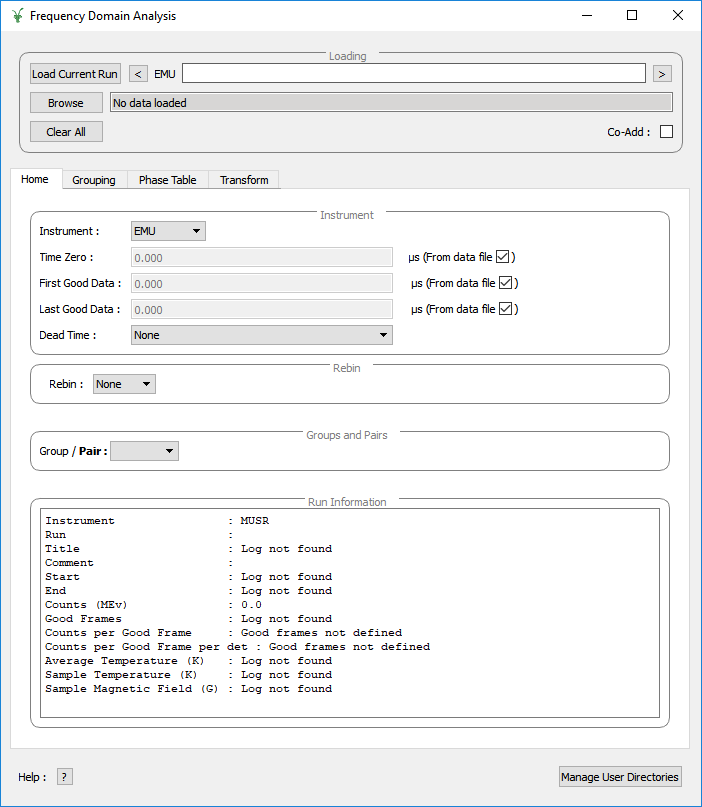
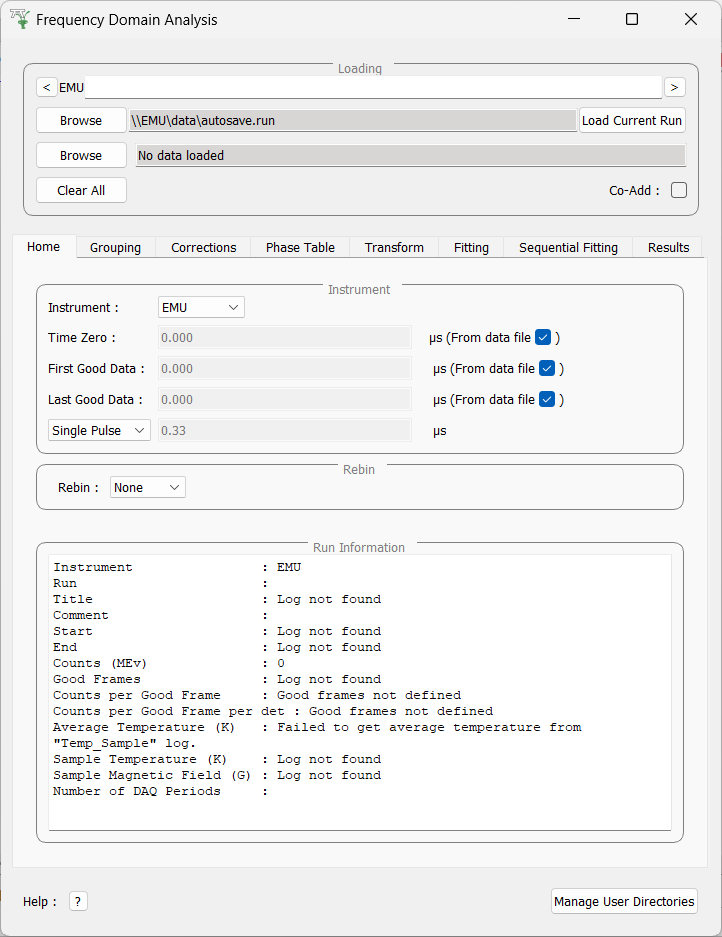
Allow user to specify the location of an autosave.run file in the muon analysis interface (#41711)

Pull request: Allow user to specify the location of an autosave.run file in the muon analysis interface
### Description of work

The original issue was to enable the `Load Current Run` button on all platforms. We found that this button gets a file from a windows network mounted folder (on the cabin pc) e.g `\\emu\data`. This is not really accessible to other platforms.

To load the current run, the interface looks inside a file called `autosave.run` (e.g `\\emu\data\autosave.run`) which contains the name of the latest run; a file in the same directory. Talking with the user who requested this feature, they said they'd be happy with being able to specify the path to the `autosave.run` file on other platforms.

So I've added a new browse button + line edit to list the location of that file, it is filled automatically on Windows.

Closes #41365

### To test:

On Windows,
 - Check that the load current run button still works
 - Change the instrument and check it still works

On Linux/Mac
- In a directory where you have `EMU<number>.nxs`, create a file called `autosave.run`
- Inside `autosave.run` write `EMU<number>.nxs` on a single line
- In the interface click browse and select the new autosave file you wrote
- Click load current run and check it loads the file you specified

Build docs and check the changed ones look sensible.

<!-- Include sufficient instructions for someone unfamiliar with the application to test.
Ok to refer back to instructions in the issue.
-->

<!-- REMEMBER:
- Add labels, milestones, etc.
[…]

diff --git a/qt/python/mantidqtinterfaces/mantidqtinterfaces/Muon/GUI/Common/load_run_widget/load_run_view.py b/qt/python/mantidqtinterfaces/mantidqtinterfaces/Muon/GUI/Common/load_run_widget/load_run_view.py
@@ -20,9 +20,11 @@ class LoadRunWidgetView(QtWidgets.QWidget):
     def __init__(self, parent=None):
         super(LoadRunWidgetView, self).__init__(parent)
         self.load_current_run_button = None
+        self.browse_button = None
+        self.autosave_file_path_edit = None
         self.increment_run_button = None
         self.decrement_run_button = None
-        self.horizontal_layout = None
+        self.vertical_layout = None
         self.instrument_label = None
         self.run_edit = None
         self.spacer_item = None
@@ -37,10 +39,22 @@ class LoadRunWidgetView(QtWidgets.QWidget):
         self.setObjectName("LoadRunWidget")
         self.resize(468, 45)
 
+        self.browse_button = QtWidgets.QPushButton(self)
+        self.browse_button.setObjectName("browseButton")
+        self.browse_button.setToolTip("Browse for an autosave.run file")
+        self.browse_button.setText("Browse")
+
         self.load_current_run_button = QtWidgets.QPushButton(self)
         self.load_current_run_button.setText("Load Current Run")
         self.load_current_run_button.setToolTip("Load the current run for the current instrument")
         self.load_current_run_button.setObjectName("loadCurrentRunButton")
+
+        self.autosave_file_path_edit = QtWidgets.QLineEdit(self)
+        self.autosave_file_path_edit.setToolTip("Set location of autosave.run")
+        self.autosave_file_path_edit.setObjectName("autosaveFilePathEdit")
+        self.autosave_file_path_edit.setPlaceholderText("autosave.run file path not set")
+        self.autosave_file_path_edit.setStyleSheet("background: #d7d6d5;")
+        self.autosave_file_path_edit.setReadOnly(True)
 
         self.increment_run_button = QtWidgets.QToolButton(self)
         self.increment_run_button.setText(">")
@@ -67,18 +81,28 @@ class LoadRunWidgetView(QtWidgets.QWidget):
         )
         self.run_edit.setObjectName("runEdit")
 
-        self.horizontal_layout = QtWidgets.QHBoxLayout(self)
-        self.horizontal_layout.setObjectName("horizontalLayout")
-        self.horizontal_layout.addWidget(self.load_current_run_button)
-        self.horizontal_layout.addWidget(self.decrement_run_button)
-        self.horizontal_layout.addWidget(self.instrument_label)
-        self.horizontal_layout.addWidget(self.run_edit)
-        self.horizontal_layout.addWidget(self.increment_run_button)
+        horizontal_layout_1 = QtWidgets.QHBoxLayout()
+        horizontal_layout_1.setObjectName("horizontalLayout_1")
+        horizontal_layout_1.addWidget(self.decrement_run_button)
+        horizontal_layout_1.addWidget(self.instrument_label)
+        horizontal_layout_1.addWidget(self.run_edit)
+        horizontal_layout_1.addWidget(self.increment_run_button)
 
-        self.horizontal_layout.setContentsMargins(0, 0, 0, 0)
+        horizontal_layout_2 = QtWidgets.QHBoxLayout()
+        horizontal_layout_2.setObjectName("horizontalLayout_2")
+        horizontal_layout_2.addWidget(self.browse_button)
+        horizontal_layout_2.addWidget(self.autosave_file_path_edit)
+        horizontal_layout_2.addWidget(self.load_current_run_button)
+
+        self.vertical_layout = QtWidgets.QVBoxLayout(self)
+        self.vertical_layout.setObjectName("verticalLayout")
+        self.vertical_layout.addItem(horizontal_layout_1)
+        self.vertical_layout.addItem(horizontal_layout_2)
+
+        self.vertical_layout.setContentsMargins(0, 0, 0, 0)
 
     def getLayout(self):
-        return self.horizontalLayout
+        return self.vertical_layout
 
     # ------------------------------------------------------------------------------------------------------------------
     # Enabling / disabling the interface
@@ -103,12 +127,14 @@ class LoadRunWidgetView(QtWidgets.QWidget):
     def disable_load_buttons(self):
         self.load_current_run_button.setEnabled(False)
         self.run_edit.setEnabled(False)
+        self.autosave_file_path_edit.setEnabled(False)
         self.increment_run_button.setEnabled(False)
         self.decrement_run_button.setEnabled(False)
 
     def enable_load_buttons(self):
         self.load_current_run_button.setEnabled(True)
         self.run_edit.setEnabled(True)
+        self.autosave_file_path_edit.setEnabled(True)
         self.increment_run_button.setEnabled(True)
         self.decrement_run_button.setEnabled(True)
 
@@ -127,6 +153,9 @@ class LoadRunWidgetView(QtWidgets.QWidget):
 
     def set_current_instrument(self, instrument):
         self.instrument_label.setText(instrument)
+
+    def set_autosave_file_path(self, file_path):
+        self.autosave_file_path_edit.setText(file_path)
 
     def set_run_edit_regex(self):
         # The regular expression string here is "^[0-9]*([0-9]+[,-]{0,1})*[0-9]+$"
@@ -147,6 +176,9 @@ class LoadRunWidgetView(QtWidgets.QWidget):
         tmp = self._cached_text
         self.set_run_edit_text(tmp)
         self._cached_text = tmp
+
+    def get_autosave_file_path(self):
+        return str(self.autosave_file_path_edit.text())
 
     def get_run_edit_text(self):
         return str(self.run_edit.text())
@@ -169,6 +201,9 @@ class LoadRunWidgetView(QtWidgets.QWidget):
 
     def on_increment_run_clicked(self, slot):
         self.increment_run_button.clicked.connect(slot)
+
+    def on_browse_clicked(self, slot):
+        self.browse_button.clicked.connect(slot)
 
     def on_load_current_run_clicked(self, slot):
         self.load_current_run_button.clicked.connect(slot)

diff --git a/qt/python/mantidqtinterfaces/test/Muon/utilities/muon_file_utils_test.py b/qt/python/mantidqtinterfaces/test/Muon/utilities/muon_file_utils_test.py
@@ -118,12 +118,58 @@ class MuonFileUtilsTest(unittest.TestCase):
         test_file_name = StringIO("autoA")
         utils.open = mock.Mock(return_value=test_file_name)
         current_file_name = utils.get_current_run_filename("EMU")
-        self.assertEqual(current_file_name, expected_file_name)
+        self.assertEqual(str(current_file_name), expected_file_name)
 
     def test_that_get_current_run_throws_if_no_valid_run_in_autosave_run(self):
         utils.check_file_exists = mock.Mock(side_effect=[True, False])
         with self.assertRaises(ValueError):
             utils.get_current_run_filename("EMU")
+
+    def test_get_autosave_file_path_returns_correct_path_for_emu(self):
+        expected_file_path = os.path.abspath(os.sep + os.sep + "EMU" + os.sep + "data" + os.sep + "autosave.run")
+        file_path = utils.get_autosave_file_path("EMU")
+
+        self.assertEqual(file_path, expected_file_path)
+
+    def test_get_autosave_file_path_returns_correct_path_for_musr(self):
+        expected_file_path = os.path.abspath(os.sep + os.sep + "MUSR" + os.sep + "data" + os.sep + "autosave.run")
+        file_path = utils.get_autosave_file_path("MUSR")
+
+        self.assertEqual(file_path, expected_file_path)
+
+    def test_get_autosave_file_path_throws_for_invalid_instrument(self):
+        with self.assertRaisesRegex(RuntimeError, "not in list of allowed instruments"):
+            utils.get_autosave_file_path("INVALID_INSTRUMENT")
+
+    def test_get_current_run_filename_with_custom_autosave_path(self):
+        utils.check_file_exists = mock.Mock(return_value=True)
+        custom_autosave_path = "/custom/path/autosave.run"
+        expected_file_name = "/custom/path/autoA"
+        test_file_content = StringIO("autoA")
+        utils.open = mock.Mock(return_value=test_file_content)
+
+        current_file_name = utils.get_current_run_filename("EMU", autosave=custom_autosave_path)
+
+        self.assertEqual(current_file_name.as_posix(), expected_file_name)
+        # Verify that open was called with the custom autosave path
+        utils.open.assert_called_once_with(custom_autosave_path, "r")
+
+    def test_get_current_run_filename_uses_default_autosave_when_none_provided(self):
+        utils.check_file_exists = mock.Mock(return_value=True)
+        expected_file_name = os.sep + os.sep + "EMU" + os.sep + "data" + os.sep + "autoA"
+        test_file_content = StringIO("autoA")
+        utils.open = mock.Mock(return_value=test_file_content)
+
+        current_file_name = utils.get_current_run_filename("EMU", autosave=None)
+
+        self.assertEqual(str(current_file_name), expected_file_name)
+
+    def test_get_current_run_filename_throws_if_custom_autosave_not_found(self):
+        utils.check_file_exists = mock.Mock(return_value=False)
+        custom_autosave_path = "/custom/path/nonexistent/autosave.run"
+
+        with self.assertRaisesRegex(ValueError, "Cannot find file"):
+            utils.get_current_run_filename("EMU", autosave=custom_autosave_path)
 
 
 if __name__ == "__main__":

diff --git a/qt/python/mantidqtinterfaces/mantidqtinterfaces/Muon/GUI/Common/load_run_widget/load_run_presenter.py b/qt/python/mantidqtinterfaces/mantidqtinterfaces/Muon/GUI/Common/load_run_widget/load_run_presenter.py
@@ -5,13 +5,16 @@
 #   Institut Laue - Langevin & CSNS, Institute of High Energy Physics, CAS
 # SPDX - License - Identifier: GPL - 3.0 +
 import copy
+import os
 
 from mantidqtinterfaces.Muon.GUI.Common import thread_model
 import mantidqtinterfaces.Muon.GUI.Common.utilities.run_string_utils as run_utils
 import mantidqtinterfaces.Muon.GUI.Common.utilities.muon_file_utils as file_utils
 import mantidqtinterfaces.Muon.GUI.Common.utilities.load_utils as load_utils
 from mantidqtinterfaces.Muon.GUI.Common.utilities.run_string_utils import flatten_run_list
+from mantidqtinterfaces.Muon.GUI.Common.utilities.muon_file_utils import show_file_browser_and_return_selection
 from mantidqt.utils.observer_pattern import Observable
+from mantid.kernel.environment import is_windows
 
 
 class LoadRunWidgetPresenter(object):
@@ -26,6 +29,10 @@ class LoadRunWidgetPresenter(object):
 
         self._instrument = self._model.instrument
         self._view.set_current_instrument(self._instrument)
+        if is_windows():
+            self.set_autosave_file_path(file_utils.get_autosave_file_path(self._instrument))
+        else:
+            self.set_autosave_file_path("")
 
         self.run_list = []
 
@@ -34,6 +41,7 @@ class LoadRunWidgetPresenter(object):
         self.disable_notifier = self.DisableEditingNotifier(self)
 
     def _set_connections(self):
+        self._view.on_browse_clicked(self.handle_browse_clicked)
         self._view.on_load_current_run_clicked(self.handle_load_current_run)
         self._view.on_increment_run_clicked(self.handle_increment_run)
         self._view.on_decrement_run_clicked(self.handle_decrement_run)
@@ -60,6 +68,8 @@ class LoadRunWidgetPresenter(object):
         else:
             self._view.enable_load_buttons()
         self._instrument = instrument
+        if is_windows():
+            self.set_autosave_file_path(file_utils.get_autosave_file_path(self._instrument))
         self._view.set_current_instrument(instrument)
 
     def disable_loading(self):
@@ -73,6 +83,13 @@ class LoadRunWidgetPresenter(object):
     def clear_loaded_data(self):
         self._view.clear()
         self._model.clear_loaded_data()
+
+    def set_autosave_file_path(self, file_path):
+        self._view.set_autosave_file_path(file_path)
+        if not file_path and not is_windows():
+            self._view.load_current_run_button.setEnabled(False)
+        else:
+            self._view.load_current_run_button.setEnabled(True)
 
     @property
     def workspaces(self):
@@ -129,12 +146,24 @@ class LoadRunWidgetPresenter(object):
             self.on_loading_finished()
 
     # ------------------------------------------------------------------------------------------------------------------
+    # Browse for autosave.run file
+    # ------------------------------------------------------------------------------------------------------------------
+
+    def handle_browse_clicked(self):
+        file_filter = "Autosave Run File (*.run)"
+        filename = show_file_browser_and_return_selection(self._view, file_filter, [""], multiple_files=False)
+        if filename:
+            self.set_autosave_file_path(filename[0])
+
+    # ------------------------------------------------------------------------------------------------------------------
     # Loading from current run button
     # ------------------------------------------------------------------------------------------------------------------
 
     def handle_load_current_run(self):
         try:
-            current_run_file = file_utils.get_current_run_filename(self.get_current_instrument())
+            current_run_file = str(
+                file_utils.get_current_run_filename(self.get_current_instrument(), os.path.abspath(self._view.get_autosave_file_path()))
+            )
         except ValueError as error:
             self._view.warning_popup(error.args[0])
             return

diff --git a/qt/python/mantidqtinterfaces/mantidqtinterfaces/Muon/GUI/Common/utilities/muon_file_utils.py b/qt/python/mantidqtinterfaces/mantidqtinterfaces/Muon/GUI/Common/utilities/muon_file_utils.py
@@ -8,6 +8,7 @@ import os
 from mantid.api import FileFinder
 from mantidqtinterfaces.Muon.GUI.Common.message_box import warning
 from qtpy import QtWidgets
+from pathlib import Path
 
 allowed_instruments = ["EMU", "MUSR", "CHRONUS", "HIFI", "ARGUS", "PSI"]
 allowed_extensions = ["nxs", "nxs_v2", "bin", "nxs_v1"]
@@ -36,31 +37,38 @@ def check_file_exists(filename):
     return os.path.isfile(filename)
 
 
-def get_current_run_filename(instrument):
-    """
-    If instrument is supported, attempts to find the file on the ISIS network which
-    contains the data from its current (most up-to-date) run.
-    """
-
+def get_autosave_file_path(instrument):
     instrument_directory = get_instrument_directory(instrument)
     if instrument_directory is None:
         return ""
 
     file_path = _instrument_data_directory(instrument_directory) + FILE_SEP
     autosave_file_name = file_path + "autosave.run"
+    return os.path.abspath(autosave_file_name)
+
+
+def get_current_run_filename(instrument, autosave=None):
+    """
+    If instrument is supported, attempts to find the file on the ISIS network which
+    contains the data from its current (most up-to-date) run.
+    """
+    autosave_file_name = autosave or get_autosave_file_path(instrument)
+
+    autosave_file_path = Path(autosave_file_name)
+    autosave_directory = autosave_file_path.parent
     current_run_filename = ""
     if not check_file_exists(autosave_file_name):
         raise ValueError("Cannot find file : " + autosave_file_name)
     with open(autosave_file_name, "r") as autosave_file:
         for line in autosave_file:
             line.replace(" ", "")
-            file_name = file_path + line
-            if check_file_exists(FileFinder.getFullPath(file_name)):
+            file_name = autosave_directory / line
+            if check_file_exists(FileFinder.getFullPath(str(file_name))):
                 current_run_filename = file_name
     if current_run_filename == "":
         # Default to auto_A (replicates MuonAnalysis 1.0 behaviour)
-        current_run_filename = file_path + instrument_directory + "auto_A.tmp"
-        warning("Failed to find latest run, defaulting to " + current_run_filename)
+        current_run_filename = autosave_directory / (instrument + "auto_A.tmp")
+        warning("Failed to find latest run, defaulting to " + str(current_run_filename))
 
     return current_run_filename
 

diff --git a/qt/python/mantidqtinterfaces/test/Muon/load_run_widget/loadrun_presenter_current_run_test.py b/qt/python/mantidqtinterfaces/test/Muon/load_run_widget/loadrun_presenter_current_run_test.py
@@ -180,6 +180,26 @@ class LoadRunWidgetLoadCurrentRunTest(unittest.TestCase):
 
         self.assertEqual(self.signal_handler.call_count, 1)
 
+    @patch("mantidqtinterfaces.Muon.GUI.Common.load_run_widget.load_run_presenter.show_file_browser_and_return_selection")
+    def test_handle_browse_clicked_sets_autosave_path(self, mock_file_browser):
+        test_file_path = "/path/to/autosave.run"
+        mock_file_browser.return_value = [test_file_path]
+
+        self.presenter.handle_browse_clicked()
+
+        self.assertEqual(self.view.get_autosave_file_path(), test_file_path)
+
+    @patch("mantidqtinterfaces.Muon.GUI.Common.load_run_widget.load_run_presenter.show_file_browser_and_return_selection")
+    def test_handle_browse_clicked_with_no_selection(self, mock_file_browser):
+        original_path = "/original/path/autosave.run"
+        self.view.set_autosave_file_path(original_path)
+        mock_file_browser.return_value = []
+
+        self.presenter.handle_browse_clicked()
+
+        # Path should remain unchanged if nothing was selected
+        self.assertEqual(self.view.get_autosave_file_path(), original_path)
+
 
 if __name__ == "__main__":
     unittest.main(buffer=False, verbosity=2)

diff --git a/qt/python/mantidqtinterfaces/test/Muon/load_run_widget/loadrun_view_test.py b/qt/python/mantidqtinterfaces/test/Muon/load_run_widget/loadrun_view_test.py
@@ -74,6 +74,13 @@ class LoadRunWidgetViewTest(unittest.TestCase):
 
         self.assertEqual(result, "")
 
+    def test_set_autosave_file_path(self):
+        test_path = "/path/to/autosave.run"
+        self.view.set_autosave_file_path(test_path)
+        result = self.view.get_autosave_file_path()
+
+        self.assertEqual(result, test_path)
+
 
 if __name__ == "__main__":
     unittest.main(buffer=False, verbosity=2)

diff --git a/qt/python/mantidqtinterfaces/mantidqtinterfaces/Muon/GUI/Common/plot_widget/base_pane/base_pane_view.py b/qt/python/mantidqtinterfaces/mantidqtinterfaces/Muon/GUI/Common/plot_widget/base_pane/base_pane_view.py
@@ -61,7 +61,7 @@ class BasePaneView(widget, ui_plotting_view):
         """
         Adds the canvas widget (where the plotting will occur) to the widget view.
         """
-        canvas_layout = QtWidgets.QHBoxLayout(self)
+        canvas_layout = QtWidgets.QHBoxLayout()
         self.canvasFrame.setLayout(canvas_layout)
         canvas_layout.addWidget(canvas_widget)
 

diff --git a/docs/source/interfaces/muon/Frequency Domain Analysis.rst b/docs/source/interfaces/muon/Frequency Domain Analysis.rst
@@ -24,8 +24,8 @@ Loading
 
 The loading section is used to load data as well as to specify what the current runs of interest are.
 
-**Load Current Run** This will load the latest run for the selected instrument. You must be connected to the
-ISIS data archive for this to work. It also currently only works on windows.
+**Load Current Run** This will load the latest run for the selected instrument specified in the ``autosave.run`` file
+(shown in the accompanying line edit). This is automatically set when on Windows (you must be connected to the data archive).
 
 **Run selection box** This takes a comma seperated list of run numbers and loads them all in. You may also
 specify ranged of runs with a dash. For example ``62260, 62270-3`` will load ``62260, 62270, 62271, 62273``. This also specifies

diff --git a/docs/source/interfaces/muon/Muon Analysis.rst b/docs/source/interfaces/muon/Muon Analysis.rst
@@ -22,8 +22,8 @@ Loading
 
 The loading section is used to load data as well as to specify what the current runs of interest are.
 
-**Load Current Run** This will load the latest run for the selected instrument. You must be connected to the
- data archive. It also currently only works on windows.
+**Load Current Run** This will load the latest run for the selected instrument specified in the ``autosave.run`` file
+(shown in the accompanying line edit). This is automatically set when on Windows (you must be connected to the data archive).
 
 **Run selection box** This takes a comma seperated list of run numbers for the GUI to load. A range
 be specified with a dash. For example ``62260, 62270-3`` will load ``62260, 62270, 62271, 62273``. This specifies

diff --git a/docs/source/release/v6.17.0/Muon/Muon_Analysis/Bugfixes/41365.rst b/docs/source/release/v6.17.0/Muon/Muon_Analysis/Bugfixes/41365.rst
@@ -1,0 +1,1 @@
+- Added the ability to specify the location of the ``autosave.run`` (used for loading the current run) file in the Muon Analysis <Muon_Analysis-ref> and Frequency Domain Analysis <Frequency_Domain_Analysis-ref> interfaces. This allows users on platforms other than Windows to specify the location of the autosave file (location is automatically set on Windows).